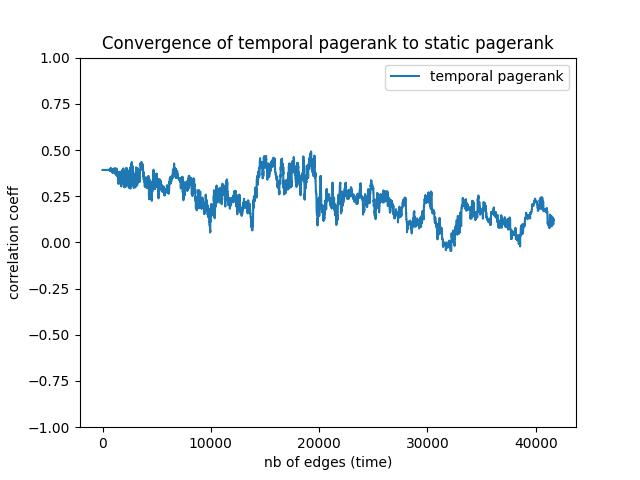
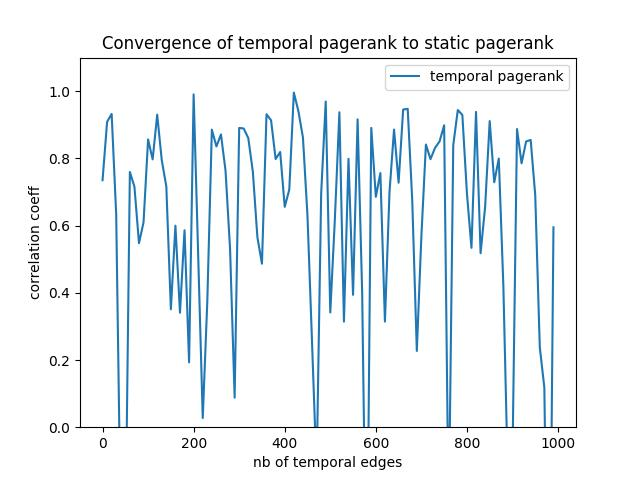
sync

diff --git a/src/main.py b/src/main.py
@@ -7,25 +7,30 @@ import plot
 from scipy.stats import pearsonr
 
 def convergence_experiment():
-    n, t_edges = utils.patg_to_tedges("data/1_01_hypertext.patg")
+    n, t_edges = utils.patg_to_tedges("data/graph1.patg")
     G = utils.digraph_from_edges(t_edges, False)
     h, a = pr.create_transition_and_dangling_matrices(G)
     p = [len(list(G.successors(u))) / len(G.edges)for u in G.nodes]
     p_vector = np.array([p])
     static_pr = pr.static_pr_pwr(h, a, p_vector=p_vector)[0]
     print("static pr computed...")
-    t_edges_extended = utils.extend_tedgelist(t_edges, 100000)
-    temp_pr = pr.temp_pr_tstamp_rdwalk(n, t_edges, save_steps=True)
+    t_edges_extended = utils.extend_tedgelist(t_edges, 1000)
+    temp_pr = pr.temp_pr_tstamp_rdwalk(n, t_edges_extended, save_steps=True)
     print("pageranks computed...")
-    plot.convergence_plot("convergence.jpg", static_pr, temp_pr)
+    test_pr = pr.temp_pr_tstamp_rdwalk(n, t_edges_extended)
+    print(np.linalg.norm(test_pr - temp_pr[-1]))
+    test_pr2 = pr.temp_pr_tstamp_rdwalk(n, t_edges_extended[:378])
+    print(np.linalg.norm(test_pr2 - temp_pr[379]))
+    # plot.convergence_plot("convergence.jpg", static_pr, temp_pr, 10)
 
 def pr_comparison():
-    n, t_edges = utils.patg_to_tedges("data/1_15_SMS.patg")
+    n, t_edges = utils.patg_to_tedges("data/1_01_hypertext.patg")
     G = utils.digraph_from_edges(t_edges, False)
     print("graphs loaded...")
     h, a = pr.create_transition_and_dangling_matrices(G)
-    static_pr = pr.static_pr_pwr(h, a)
+    static_pr = pr.static_pr_pwr(h, a)[0]
     print("static pr computed...")
+
 
 def compare_original_pr():
     n, t_edges = utils.patg_to_tedges("data/graph1.patg")
@@ -35,11 +40,10 @@ def compare_original_pr():
     p_vector = np.array([p])
     static_pr = pr.static_pr_pwr(h, a, p_vector=p_vector)[0]
     p_dict = {i: p[i] for i in range(n)}
-    pagerank = nx.pagerank(G, personalization=p_dict, weight='weight')
-    print(static_pr)
-    print(pagerank)
-    print(pearsonr(static_pr, list(pagerank.values())).statistic)
+    pagerank = nx.pagerank(G, alpha=0.85, personalization=p_dict, weight='weight')
+    pr_vector = [pagerank[i] for i in range(len(static_pr))]
+    print(pearsonr(static_pr, pr_vector).statistic)
 
 def main():
-    compare_original_pr()
+    convergence_experiment()
 main()

diff --git a/src/pagerank.py b/src/pagerank.py
@@ -19,7 +19,7 @@ def create_transition_and_dangling_matrices(
             a[u] = 1
         total_weight = sum([edge_weights[(u, v)] for v in graph.successors(u)])
         for v in graph.successors(u):
-            h[u - 1, v - 1] = edge_weights[(u, v)] / total_weight
+            h[u, v] = edge_weights[(u, v)] / total_weight
     return h, a
 
 
@@ -99,12 +99,12 @@ def temp_pr_tstamp_rdwalk(
             return r_list if save_steps else r
         if save_steps:
             r_list.append(prev_r)
-            r_list[-1][u] += (1 - alpha) * h[u] if personalize else 1 - alpha
-            s[u] += (1 - alpha) * h[u] if personalize else 1 - alpha
+            r_list[-1][u] = r_list[-1][u] * 0.999 + (1 - alpha) * h[u] if personalize else 1 - alpha
+            s[u] = s[u] * 0.999 + (1 - alpha) * h[u] if personalize else 1 - alpha
             r_list[-1][v] += s[u] * alpha
         else:
-            r[u] += (1 - alpha) * h[u] if personalize else 1 - alpha
-            s[u] += (1 - alpha) * h[u] if personalize else 1 - alpha
+            r[u] = r[u] * 0.999 + (1 - alpha) * h[u] if personalize else 1 - alpha
+            s[u] = s[u] * 0.999 + (1 - alpha) * h[u] if personalize else 1 - alpha
             r[v] += s[u] * alpha
         if beta < 1:
             s[v] += s[u] * (1 - beta) * alpha

diff --git a/src/plot.py b/src/plot.py
@@ -3,17 +3,17 @@ from utils import pagerank_ranking
 import numpy as np
 from scipy.stats import pearsonr
 
-def convergence_plot(fname: str, static_pr: np.ndarray, temp_pr: list):
+def convergence_plot(fname: str, static_pr: np.ndarray, temp_pr: list, delta=1):
     static_rank = pagerank_ranking(static_pr)
     ax = plt.subplot()
     k = len(temp_pr)
-    x_temp, y_temp = np.arange(k), np.zeros(k)
-    for j in range(k):
-        y_temp[j] = pearsonr(static_rank, pagerank_ranking(temp_pr[j])).statistic
+    x_temp, y_temp = np.arange(0, k, delta), np.zeros(k//delta)
+    for j in range(0, k, delta):
+        y_temp[j//delta] = pearsonr(temp_pr[j], static_pr).statistic
     ax.plot(x_temp, y_temp, label="temporal pagerank")
-    ax.set_xlabel("nb of edges (time)")
+    ax.set_xlabel("nb of temporal edges")
     ax.set_ylabel("correlation coeff")
-    ax.set_ylim(-1., 1.)
+    ax.set_ylim(0., 1.1)
     ax.legend()
     ax.set_title("Convergence of temporal pagerank to static pagerank")
     plt.savefig(fname)

diff --git a/src/utils.py b/src/utils.py
@@ -60,8 +60,9 @@ def digraph_from_edges(t_edges: list, time_weight: bool) -> nx.digraph:
 def extend_tedgelist(t_edges: list, n: int) -> list:
     min_t = min(t_edges, key=lambda x: x[2])
     max_t = max(t_edges, key=lambda x: x[2])
-    edges = [(e[0], e[1]) for e in t_edges]
-    new_edges = rd.choices(edges, k=n)
+    edges = list(set([(e[0], e[1]) for e in t_edges]))
+    w = [1/len(edges) for edge in edges]
+    new_edges = rd.choices(edges, k=n, weights=w)
     new_tedges = [(e[0], e[1], i) for i, e in enumerate(new_edges)]
     return new_tedges
 

diff --git a/README.md b/README.md
@@ -1,6 +1,6 @@
 # Temporal PageRank
 
-The objective of this project is to explore the pagerank algorithm and its temporal versions. First the **original algorithm** is implemented, then 3 others follow. The second one is the **temporal pagerank** [[2]](#2) applied on edges with only one time parameter. It takes temporal edges one by one, allowing the user to have the temporal pagerank vector a each time step, in this sense it really gives us a temporal pagerank. Then I worked on **linkstreams** and **stream graphs** [[3]](#3) where edges also have an expiry time. It makes it impossible to simply update existing walks when adding an edge as before, since as time goes by, edges can be removed and paths destroyed. Hence I implemented two solutions, the first is a direct adaptation of temporal pagerank, where only existing edges at a specific time are considered. But in this way we lose the dynamic essence of the algorithm (if an edge needs to be added, everything must be computed again). The second solution is a pagerank like measure, that works on stream graphs (where nodes also have a temporal component) merging the original algorithm with concepts of stream graphs (*duration* and *contribution* of links and nodes).
+The objective of this project is to explore the pagerank algorithm and its temporal versions. First the **original algorithm** is implemented, then 3 others follow. The second one is the **temporal pagerank** [[2]](#2) applied on edges with only one time parameter. It takes temporal edges one by one, allowing the user to have the temporal pagerank vector a each time step, in this sense it really gives us a temporal pagerank. Then the focus was put on **linkstreams** and **stream graphs** [[3]](#3) where edges also have an expiry time. It makes it impossible to simply update existing walks when adding an edge as before, since as time goes by, edges can be removed and paths destroyed. Hence we implemented two solutions, the first is a direct adaptation of temporal pagerank, where only existing edges at a specific time are considered. But in this way we lose the dynamic essence of the algorithm (if an edge needs to be added, everything must be computed again). The second solution is a pagerank like measure, that works on stream graphs (where nodes also have a temporal component) merging the original algorithm with concepts of stream graphs (*duration* and *contribution* of links and nodes).
 
 ## Content
 
@@ -33,7 +33,17 @@ Knowing that:
 
 ### Pagerank like measure on stream graphs [```temp_pr_str_graphs```](./src/pagerank.py)
 
-## Experiment
+## Experimentations
+
+### Convergence
+We first want to verify the convergence properties of the different temporal pagerank towards static orginal pagerank under specific conditions.
+For this we use the personalization vector 
+Let $T$ a time 
+
+### Pagerank analysis
+Let's now run the above algorithms on big temporal data, for this purpose we use the dataset [```1_15_SMS```](./data/1_15_SMS.patg).
+
+
 
 ## Programing Language
 
